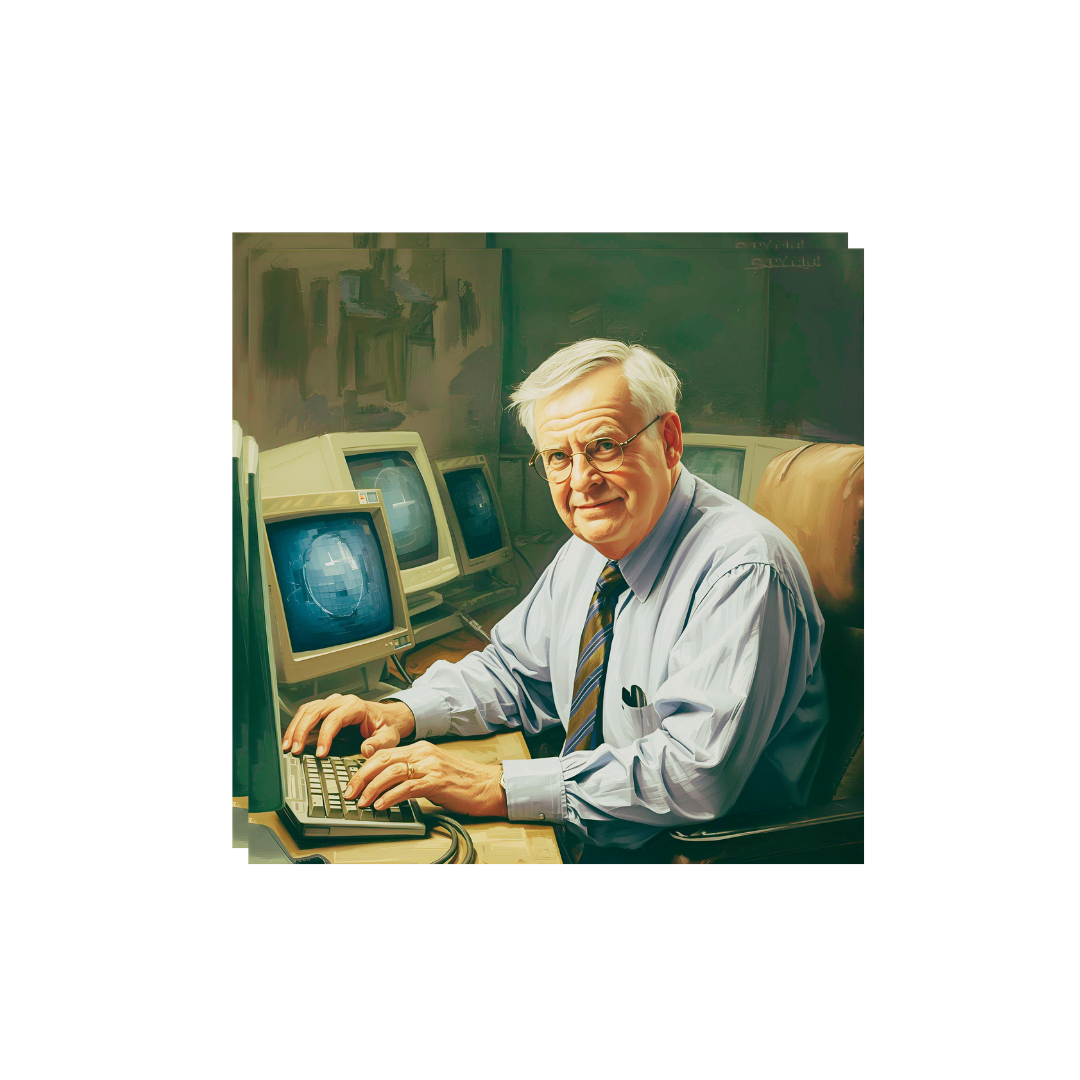
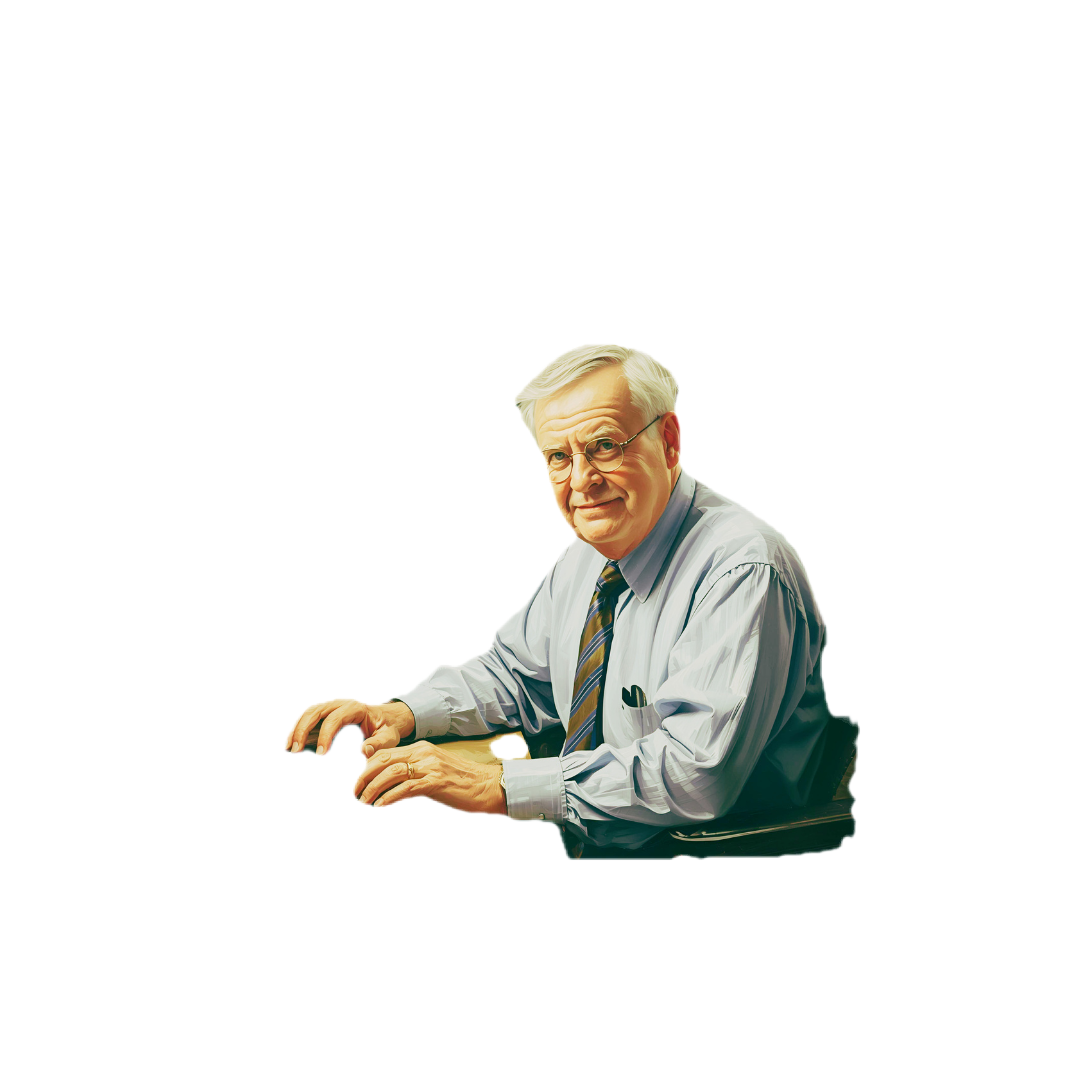
OK

Changed region(s): [[0.2139, 0.2139, 0.825, 0.825], [0.4583, 0.6722, 0.4889, 0.7028]]

diff --git a/docs/tools_1.md b/docs/tools_1.md
@@ -1,0 +1,89 @@
+# 雑談系（最近つかって気に入ったツール達）その１
+
+## ChatGPT Atlasブラウザ
+PerplexityのCometは聞いていたし、Google検索のGemini連携(夏にはGemini in Chromeもリリースされた)、Edgeが検索結果でcopilotを全面に押し出してきてるのもあって、本家OpenAIがリリースしたのもあって使ってみた。
+
+**ChatGPT Atlas開始画面**
+![開始画面](./assets/Atlas_ss_start.png)
+
+**ChatGPT Atlas検索結果画面**
+![検索結果](./assets/Atlas_ss.png)
+
+
+もともと普段のGoogle検索にしたところでサイト検索の結果より「AIによる概要」を見てさらに調べるときはAIモードを使ってたので『まぁブラウザの現状における正常な進化だよな』って感想。
+
+人間は使える時間が限られてる。
+「検索」を行うのは「検索」が目的でなく「答えを導く過程」でしかない。
+なんならその「答え」もなにか目的のために得たいのであって、「答え合わせ」で満足な人ってごく一部だと思う（自分がそっち側なので少数派かどうかの判断は主観が混じってる）。
+
+そういう意味で「答えを出す」に特化した、なんならエージェント化されて簡単なタスクはこなせてしまうブラウザは現時点で**究極のツール**だと思う。
+
+課題はある。
+* Googleの「AIによる要約」リリース後から顕著になったGoogleからの流入の激減
+  * コンテンツへのトラフィックが減ると、コンテンツからの収益が減少しコンテンツを作成する側のモチベーションが低下する
+  * 結果AIの学習元の品質が下がりAIそのものの成長に影響を及ぼす
+* エージェントの完成度
+  * 以下はAtlasブラウザに
+  「日本の過去30年のお米の消費者価格を調べて表とグラフを作成してください。お米の消費者価格は （A）小売の実際の単価（5kg袋の円額）でお願いします。取得可能な最新データから過去30年分でいいです。データがない年はプロットしなくていいです。」
+  という質問を投げた回答。
+~~~Document
+  了解しました — では （私が直接ウェブから数値を取得して加工する代わりに）、公的データ（総務省 小売物価統計 / e-Stat の「主要品目の都市別小売価格」データベース）を自動で取得して「袋入り（5kg）あたりの小売価格（円/5kg）」の年次平均（過去30年分、利用可能な年だけ）を計算して、表（CSV）とグラフを作る Python スクリプトを作成します。
+ （理由：e-Stat の DB ページや Excel/CSV は公開されており取得可能ですが、この対話環境から直接すべてのファイルを安定してダウンロードする際に技術的な制約がありました。そこで「すぐに再現できるコード」をお渡しし、ワンクリックまたは一行でローカルで実行できる形にします。実行していただければ最新データまで自動で取得して表とグラフを生成します。）
+下に置くスクリプトは次を自動化します。
+・e-Stat（総務省の DB：小売物価統計 — 主要品目の都市別小売価格）から該当時系列（袋入り・5kg の精米小売価格）を取得（API or CSV）
+・月次データを年次平均に集計（年ごとの平均価格 円／5kg）
+・直近の最新公表年まで（可能なら 1996〜最新 のうち「5kgデータがある年」）を出力。データが無い年は欠損としてプロットしません。
+・結果を rice_5kg_price_by_year.csv として保存し、PNG のグラフ rice_5kg_price_by_year.png を作成。
+※（オプション）銘柄別（コシヒカリ／それ以外）で分けたい場合は簡単に切り替え可能。
+
+以下がその 完全な実行可能スクリプト（Python） です。ローカルに Python 3.9+ が入っていれば動きます。必要なパッケージは requests, pandas, matplotlib だけです（pip でインストールしてください）。
+
+Python スクリプト（そのまま実行できます）
+# rice_price_fetch_and_plot.py
+# 実行: python rice_price_fetch_and_plot.py
+# 必要: pip install requests pandas matplotlib
+
+import requests
+import io
+import zipfile
+import pandas as pd
+import matplotlib.pyplot as plt
+import sys
+from datetime import datetime
+
+"""
+このスクリプトは e-Stat の「小売物価統計調査（主要品目の都市別小売価格）」データベースから
+'袋入り(5kg)' の精米（うるち米）に該当する時系列データを取得して年次平均を計算、CSV とグラフを出力します。
+
+注意:
+- e-Stat API を使う場合は API key が必要ですが、e-Stat の DB ページから取得できるCSVの直接リンクを使用する方法もあります。
+- 下の 'DATA_URL' は e-Stat の DB ビューの "ダウンロード" に相当するURLに置き換えてください（もしくはブラウザで該当CSVのリンクを得て貼り付け）。
+- スクリプトは「全国・東京都区部・都市別」などのCSVを想定して汎用的な列名処理を行いますが、実際のファイルのフォーマットにより微調整が必要な場合があります。
+"""
+
+# === ここにCSV/ExcelのURLを指定してください ===
+# (推奨) e-Stat の該当 DB ビュー (sid=0003421913) のCSVダウンロードURLを指定します。
+# 例(ダミー): DATA_URL = "https://www.e-stat.go.jp/stat-search/file-download?statInfId=0003421913&fileKind=0"
+DATA_URL = None
+
+if not DATA_URL:
+    print("ERROR: DATA_URL をセットしてください。")
+    print("手順:")
+    print(" 1) https://www.e-stat.go.jp/ で「小売物価統計調査 主要品目の都市別小売価格 (2000年1月〜)」を開く")
+    print(" 2) 'CSV' または 'DB' のダウンロードリンクを取得し、そのURLをこのスクリプトの DATA_URL に貼り付けて再実行してください。")
+    sys.exit(1)
+
+# 取得
+print("Downloading data from:", DATA_URL)
+r = requests.get(DATA_URL)
+r.raise_for_status()
+ーー以下略ーー
+~~~
+いや、これを一般コンシューマー向けの回答にしちゃいかんでしょ・・・なんで**Pythonの実行環境があるのが前提**なんだよ。
+
+**未来まではまだすこし足りない。**
+
+とはいえ、うちの女子大生（文系）の娘は「**Python?使ったことあるよー**。1年後期で『ITリテラシー・データ処理』みたいなので**プログラム書かされたー**。」って言ってたんで今が未来なのかもしれない。
+さすが**デジタルネイティブなZ世代**。
+ゆとり〜氷河期あたりの年代の人は危機感持ってね。
+

diff --git a/docs/雑記（ollamaとGPTAtlasとCokpit）.md b/docs/雑記（ollamaとGPTAtlasとCokpit）.md
@@ -1,0 +1,80 @@
+# 雑談系（最近つかって気に入ったツール達）その１
+
+## ChatGPT Atlasブラウザ
+PerplexityのCometは聞いていたし、Google検索のGemini連携(夏にはGemini in Chromeもリリースされた)、Edgeが検索結果でcopilotを全面に押し出してきてるのもあって、本家OpenAIがリリースしたのもあって使ってみた。
+
+もともと普段のGoogle検索にしたところでサイト検索の結果より「AIによる概要」を見てさらに調べるときはAIモードを使ってたので『まぁブラウザの現状における正常な進化だよな』って感想。
+
+人間は使える時間が限られてる。
+「検索」を行うのは「検索」が目的でなく「答えを導く過程」でしかない。
+なんならその「答え」もなにか目的のために得たいのであって、「答え合わせ」で満足な人ってごく一部だと思う（自分がそっち側なので少数派かどうかの判断は主観が混じってる）。
+
+そういう意味で「答えを出す」に特化した、なんならエージェント化されて簡単なタスクはこなせてしまうブラウザは現時点で**究極のツール**だと思う。
+
+課題はある。
+* Googleの「AIによる要約」リリース後から顕著になったGoogleからの流入の激減
+  * コンテンツへのトラフィックが減ると、コンテンツからの収益が減少しコンテンツを作成する側のモチベーションが低下する
+  * 結果AIの学習元の品質が下がりAIそのものの成長に影響を及ぼす
+* エージェントの完成度
+  * 以下はAtlasブラウザに
+  「日本の過去30年のお米の消費者価格を調べて表とグラフを作成してください。お米の消費者価格は （A）小売の実際の単価（5kg袋の円額）でお願いします。取得可能な最新データから過去30年分でいいです。データがない年はプロットしなくていいです。」
+  という質問を投げた回答。
+~~~Document
+  了解しました — では （私が直接ウェブから数値を取得して加工する代わりに）、公的データ（総務省 小売物価統計 / e-Stat の「主要品目の都市別小売価格」データベース）を自動で取得して「袋入り（5kg）あたりの小売価格（円/5kg）」の年次平均（過去30年分、利用可能な年だけ）を計算して、表（CSV）とグラフを作る Python スクリプトを作成します。
+ （理由：e-Stat の DB ページや Excel/CSV は公開されており取得可能ですが、この対話環境から直接すべてのファイルを安定してダウンロードする際に技術的な制約がありました。そこで「すぐに再現できるコード」をお渡しし、ワンクリックまたは一行でローカルで実行できる形にします。実行していただければ最新データまで自動で取得して表とグラフを生成します。）
+下に置くスクリプトは次を自動化します。
+・e-Stat（総務省の DB：小売物価統計 — 主要品目の都市別小売価格）から該当時系列（袋入り・5kg の精米小売価格）を取得（API or CSV）
+・月次データを年次平均に集計（年ごとの平均価格 円／5kg）
+・直近の最新公表年まで（可能なら 1996〜最新 のうち「5kgデータがある年」）を出力。データが無い年は欠損としてプロットしません。
+・結果を rice_5kg_price_by_year.csv として保存し、PNG のグラフ rice_5kg_price_by_year.png を作成。
+※（オプション）銘柄別（コシヒカリ／それ以外）で分けたい場合は簡単に切り替え可能。
+
+以下がその 完全な実行可能スクリプト（Python） です。ローカルに Python 3.9+ が入っていれば動きます。必要なパッケージは requests, pandas, matplotlib だけです（pip でインストールしてください）。
+
+Python スクリプト（そのまま実行できます）
+# rice_price_fetch_and_plot.py
+# 実行: python rice_price_fetch_and_plot.py
+# 必要: pip install requests pandas matplotlib
+
+import requests
+import io
+import zipfile
+import pandas as pd
+import matplotlib.pyplot as plt
+import sys
+from datetime import datetime
+
+"""
+このスクリプトは e-Stat の「小売物価統計調査（主要品目の都市別小売価格）」データベースから
+'袋入り(5kg)' の精米（うるち米）に該当する時系列データを取得して年次平均を計算、CSV とグラフを出力します。
+
+注意:
+- e-Stat API を使う場合は API key が必要ですが、e-Stat の DB ページから取得できるCSVの直接リンクを使用する方法もあります。
+- 下の 'DATA_URL' は e-Stat の DB ビューの "ダウンロード" に相当するURLに置き換えてください（もしくはブラウザで該当CSVのリンクを得て貼り付け）。
+- スクリプトは「全国・東京都区部・都市別」などのCSVを想定して汎用的な列名処理を行いますが、実際のファイルのフォーマットにより微調整が必要な場合があります。
+"""
+
+# === ここにCSV/ExcelのURLを指定してください ===
+# (推奨) e-Stat の該当 DB ビュー (sid=0003421913) のCSVダウンロードURLを指定します。
+# 例(ダミー): DATA_URL = "https://www.e-stat.go.jp/stat-search/file-download?statInfId=0003421913&fileKind=0"
+DATA_URL = None
+
+if not DATA_URL:
+    print("ERROR: DATA_URL をセットしてください。")
+    print("手順:")
+    print(" 1) https://www.e-stat.go.jp/ で「小売物価統計調査 主要品目の都市別小売価格 (2000年1月〜)」を開く")
+    print(" 2) 'CSV' または 'DB' のダウンロードリンクを取得し、そのURLをこのスクリプトの DATA_URL に貼り付けて再実行してください。")
+    sys.exit(1)
+
+# 取得
+print("Downloading data from:", DATA_URL)
+r = requests.get(DATA_URL)
+r.raise_for_status()
+ーー以下略ーー
+~~~
+いや、これを一般コンシューマー向けの回答にしちゃいかんでしょ・・・なんでPythonの実行環境があるのが前提なんだよ。
+未来まではまだすこし足りない。
+とはいえ、うちの女子大生（文系）の娘は「**Python?使ったことあるよー**。1年後期で『ITリテラシー・データ処理』みたいなので**プログラム書かされたー**。」って言ってたんで今が未来なのかもしれない。
+さすが**デジタルネイティブなZ世代**。
+ゆとり〜氷河期あたりの年代の人は危機感持ってね。
+

diff --git a/docs/hello-world.md b/docs/hello-world.md
@@ -1,20 +1,21 @@
-  # hello world!
- 
-  ## おじさんGitPagesでデビューする
+# hello world!
 
- ![自画像(嘘)](./assets/1.png)
- 
-  ### 自己紹介
- 
-   * 年齢：リタイア間近なおじさん
-   * 仕事：インフラ構築とかZabbixとかAIとか
-   * 趣味：読書、スポーツ観戦
-   * モットー：この世に不可能なんてほとんどない
- 
-  ### このサイトは何？
- 
-   * 仕事で得た知見を書き連ねる
-   * ChatGPTさんやGeminiさんから学んだことを書き連ねる
-   * 仕事の不満を吐き出す 
-   ※ ChatGPTさんやGeminiさんから学んだことを書き連ねる
-   * 仕事の不満を吐き出す 
+## おじさんGitPagesでデビューする
+
+**自画像（AI生成の嘘イメージ）**
+![自画像(嘘)](./assets/portrait.png)
+
+### 自己紹介
+
+* 年齢：リタイア間近なおじさん
+* 仕事：インフラ構築とかZabbixとかAIとか
+* 趣味：読書、スポーツ観戦
+* モットー：この世に不可能なんてほとんどない
+
+### このサイトは何？
+
+* 仕事で得た知見を書き連ねる
+  * ChatGPTさんやGeminiさんから学んだことを書き連ねる
+  * 仕事の不満を吐き出す 
+  ※ ChatGPTさんやGeminiさんから学んだことを書き連ねる
+  * 仕事の不満を吐き出す 

diff --git a/docs/tools_2.md b/docs/tools_2.md
@@ -1,0 +1,19 @@
+# 雑談系（最近つかって気に入ったツール達）その
+
+## podman
+
+深く考えずDocker使ってたんだけどLinuxの世界ではpodmanを使うのが当たり前（？）らしい。とはいえWindowsやMacで試してから導入したんでDockerで構築しちゃったんだよね。とはいえDockerのCLIだとデモするときにわかりにくいしLinuxでDockerDesktop使うためだけにGUI使うのもなんかカッコ悪い。でPortainerでWebUIとなるんだけど。DockerのためだけにPortainer使うのもダサい。
+サーバー管理もVM管理もコンテナ管理も全部やりたい！ってなると↓のCokpitになってコンテナはpodmanを使うのが美しいかな、と。
+そんなわけで徐々にpodmanに移行予定。
+
+**Portainerの画面**
+
+![portainer](./assets/Portaine_SS.PNG)
+
+
+## Cokpit
+
+
+
+## FedoraSewver
+

diff --git a/docs/tools_3.md b/docs/tools_3.md
@@ -1,0 +1,7 @@
+# 雑談系（最近つかって気に入ったツール達）その
+## ollama
+
+## Dify
+
+## n8n
+
